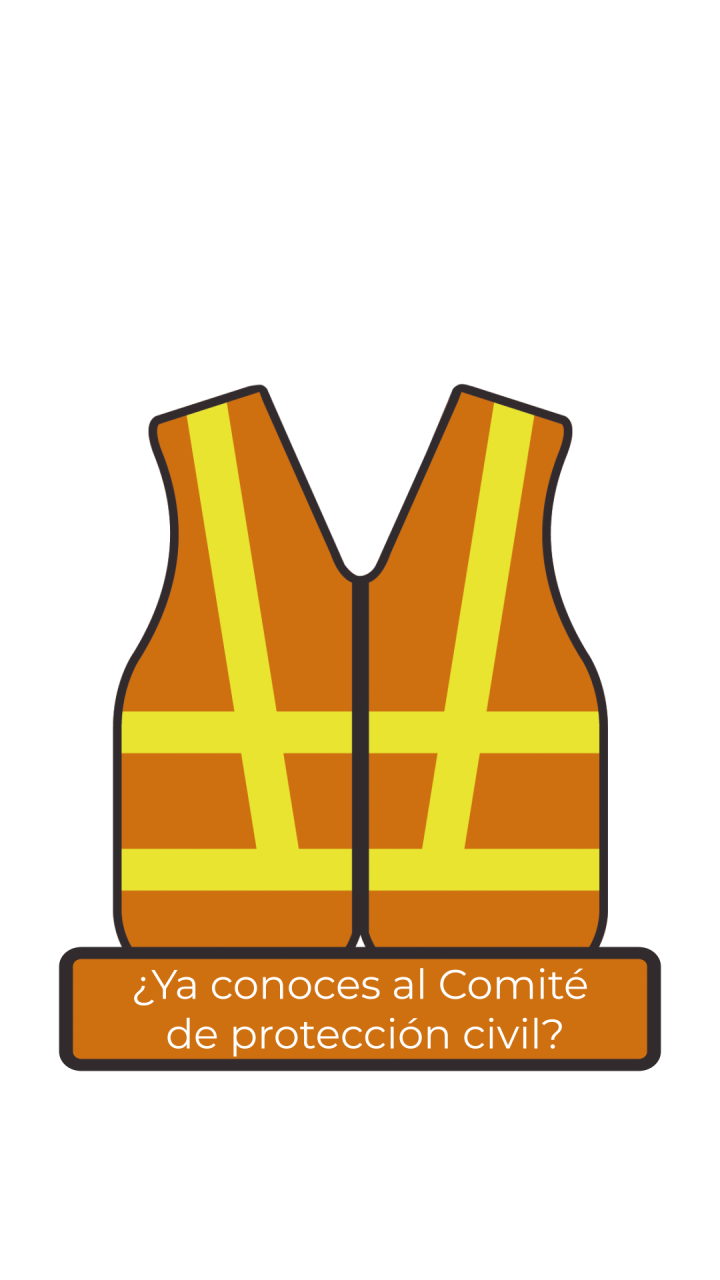
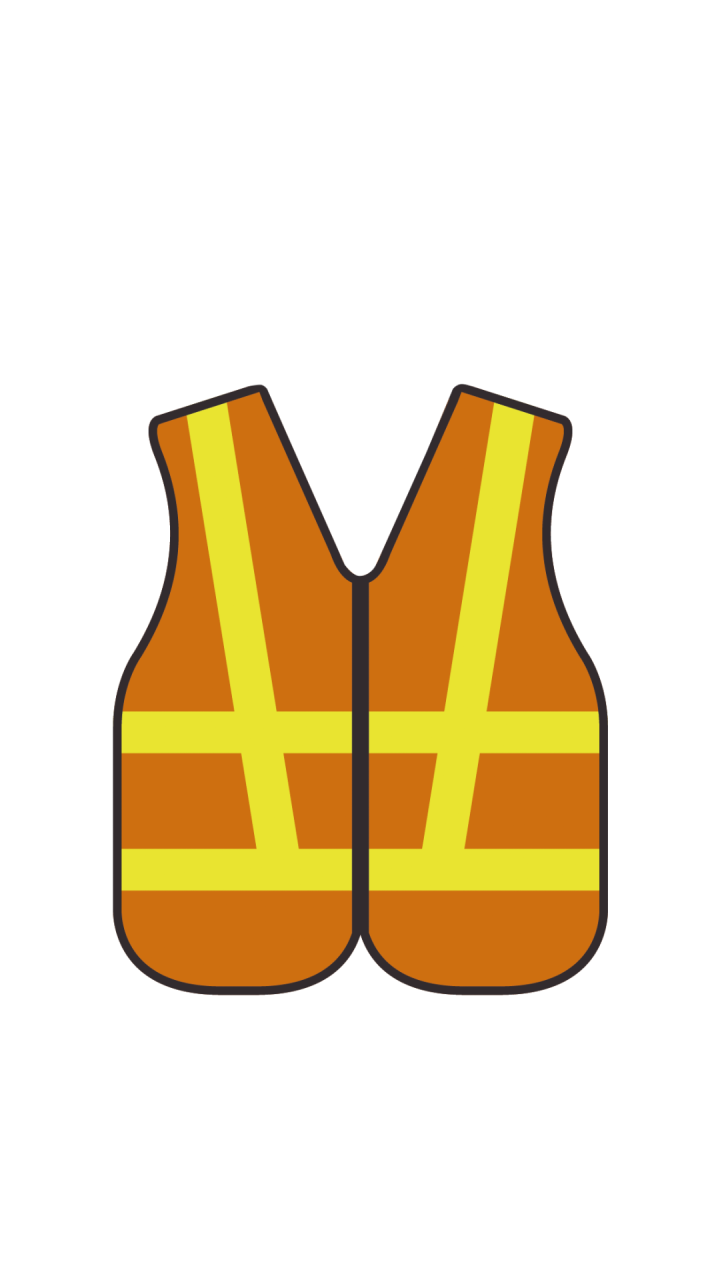
no message

Changed region(s): [[0.0611, 0.7188, 0.9167, 0.8438]]

diff --git a/Curso_evacuacion/Preguntas/index.html b/Curso_evacuacion/Preguntas/index.html
@@ -1,3 +1,4 @@
+
 <!DOCTYPE html>
 <html>
 <head>
@@ -395,6 +396,18 @@
 				display: none;
 			}
 
+			#message{
+				width: 100%;
+				position: absolute;
+				top:5%;
+
+			}
+			#messageImage{
+				position: relative;
+				left: 50%;
+				transform: translate(-50%,0%);
+
+			}
 
 
 			.circleBase {
@@ -458,8 +471,13 @@
 		</button>-->
 
 		<div id="arrows">
-			<img id="arrowLeft" src="images/arrow.jpg" onclick="clickArrow(-1)">
-			<img id="arrowRigth" src="images/arrow.jpg" onclick="clickArrow(1)">
+			<img id="arrowLeft" src="images/6taPregunta/arrows_previous.jpg" onclick="clickArrow(-1)">
+			<img id="arrowRigth" src="images/6taPregunta/arrows_next.jpg" onclick="clickArrow(1)">
+
+		</div>
+
+		<div id="message">
+			<img id="messageImage" src="images/6taPregunta/6taPregunta_banners_1.jpg">
 		</div>
 
 		<div id="bottomTextGood">       
@@ -1037,11 +1055,15 @@ function clickAns(selectedId){
 		}
 		else if(questionId == 5){
 			myImage.src = "images/5taPregunta.png";
+			document.getElementById("message").style.display = "block";
+			document.getElementById("messageImage").src = "images/5taPregunta_banner.png";
 		}
 		else if(questionId == 6){
-			myImage.src = "images/pregunta6_1.png";
+			myImage.src = "images/6taPregunta/6taPregunta_1.png";
 			document.getElementById("arrows").style.display = "block";
 			document.getElementById("arrowLeft").style.opacity = 0.5;
+			document.getElementById("message").style.display = "block";
+			document.getElementById("messageImage").src = "images/6taPregunta/6taPregunta_banners_1.png";
 		}
 		else if(questionId == 7){
 			myImage.src = "images/3raPregunta/3raPregunta_000.png";
@@ -1084,6 +1106,8 @@ function clickNext(){
 	questionId++;
 	
 	document.getElementById("arrows").style.display = "none";
+	document.getElementById("message").style.display = "none";
+
 	if(questionId == 11){
 		document.getElementById("videoDiv").style.display = "none";
 		loadQuestion();
@@ -1121,7 +1145,9 @@ function clickArrow(direction){
 		document.getElementById("arrowRigth").style.opacity = 1.0;
 	}
 
-	myImage.src = "images/pregunta6_"+currentChaleco+".png";
+	myImage.src = "images/6taPregunta/6taPregunta_"+currentChaleco+".png";
+
+	document.getElementById("messageImage").src = "images/6taPregunta/6taPregunta_banners_"+currentChaleco+".png";
 }
 
 
